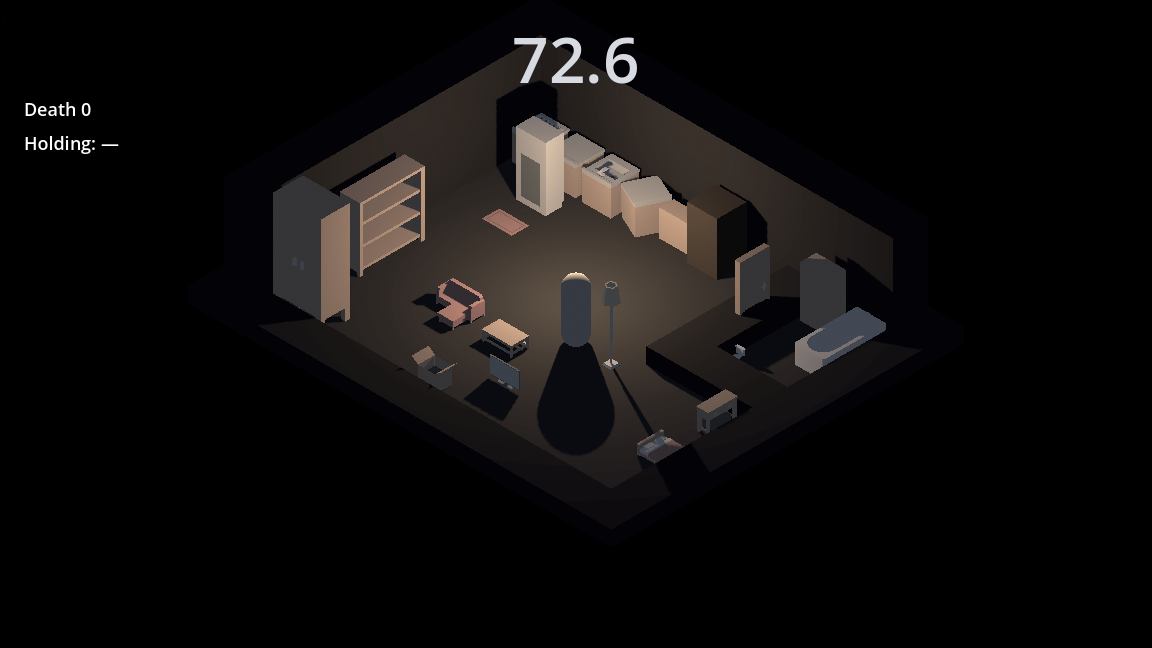
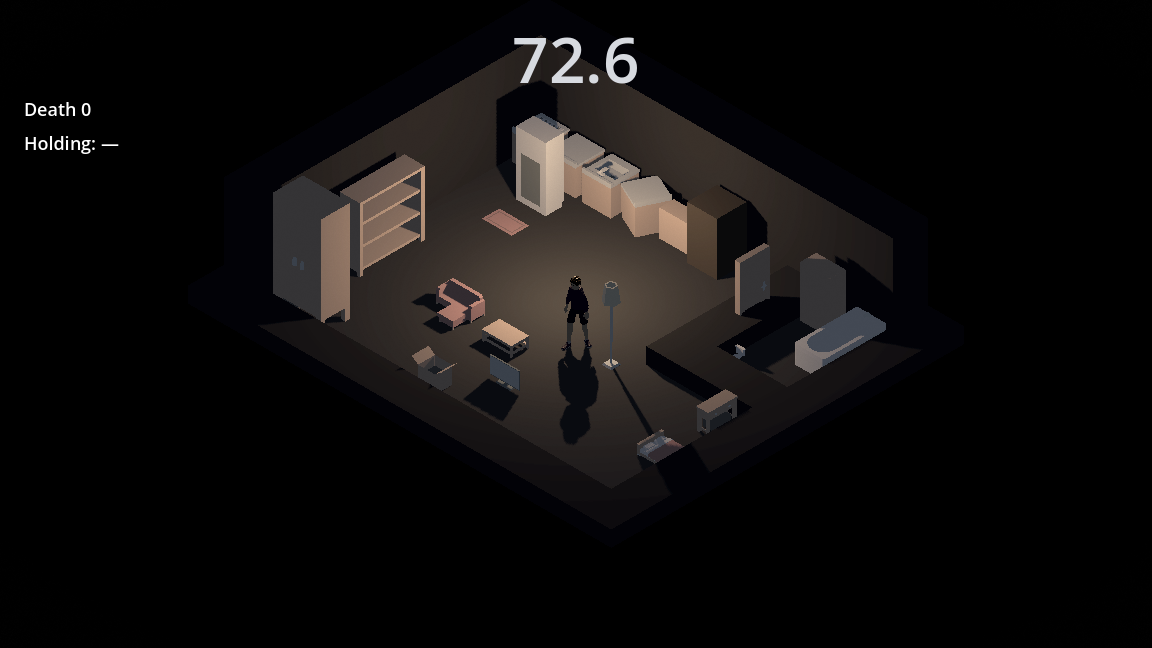
M4 tranche 3: the capsules become people
Quaternius Ultimate Modular Men, CC0. Two of the eleven characters committed at
5.9 MB: Casual_Hoodie is the player, Casual_2 is the Tenant. Both are ordinary
people, which is the point — docs/01 wants a faceless figure and a silent
attacker, not a monster.

- Self-contained .gltf, no external textures, 24 animation clips each. The
  renderer now resolves .glb or .gltf, so either kind of pack drops in.
- Idle, Walk and Death are driven from actor.clips in visuals.json. Those are
  the three states the sim can already tell apart; the rig has twenty-one more
  waiting for the pose swaps docs/06 describes.
- Figures are scaled by height alone. A rigged character stands in a T-pose until
  its idle clip starts, so bind-pose width is arms-out and means nothing — which
  is exactly the trap that made the previous pack look like a boulder.
- Which figure belongs to whom is keyed on role, never id, so a new attacker
  profile needs no code and no new art.

Also in this branch, both found by measuring rather than looking:

- Models were fitted to their footprint before being rotated, so a quarter turn
  put a model's length across the footprint's width and a two-cell bed shrank to
  one. Fitting now accounts for mesh_yaw.
- material.specular is a Godot 3 leftover that does not exist in 4.x. It threw
  233 warnings on every run. Removed.

209 tests, 0 failures. Lint, rule coverage and verify_all all exit 0.

Changed region(s): [[0.4688, 0.4321, 0.5312, 0.7099]]

diff --git a/assets/README.md b/assets/README.md
@@ -85,6 +85,20 @@ Attribution is not required by CC0. Credited anyway: created and distributed by 
 
 **Scale:** the kit is not authored at 1 unit = 1 m. `game/room_renderer.gd` measures each model's own bounds and scales it uniformly into the footprint the sim already knows about, so nothing is stretched and the pack's proportions stay honest. Origins are already at floor level, which matches the `docs/06` import convention.
 
+### Characters
+
+| Pack | Source | License | Used for | Location |
+|---|---|---|---|---|
+| Quaternius Ultimate Modular Men | [quaternius.com](https://quaternius.com/packs/ultimatemodularcharacters.html) | **CC0 1.0** — `assets/models/quaternius/LICENSE.txt` | the player and the attacker | `assets/models/quaternius/` |
+
+Two of the pack's eleven characters are committed, 5.9 MB: `Casual_Hoodie` is the player, `Casual_2` is the Tenant. Both are ordinary people, which is the point — `docs/01` wants a faceless figure and a silent attacker, not a monster. Adding another is a copy from the same download plus one line in `content/visuals.json`; the rest were left out rather than commit 35 MB for characters no room uses yet.
+
+Self-contained `.gltf` — the buffer is base64 inside the file and there are no external textures. Each carries **24 animation clips** including `Idle`, `Walk`, `Death`, `HitRecieve` and `Interact`, which is where `docs/06`'s pose swaps and stylised death come from.
+
+**Scale:** rigged figures stand in a T-pose until their idle clip starts, so bind-pose *width* is arms-out and means nothing. `game/room_renderer.gd` scales them by **height** alone. Attribution is not required by CC0; credited anyway to @Quaternius.
+
+**Which figure belongs to whom is keyed on the actor's role**, never its id, so a new attacker profile needs no code and no new art.
+
 **Palette:** the kit is cheerful and `docs/06` wants desaturated. Rather than repaint 140 models and lose their flat shading, the mood is pulled globally by `post.saturation` in `content/visuals.json`. Keep the bones, change the mood.
 
 ## Audio
